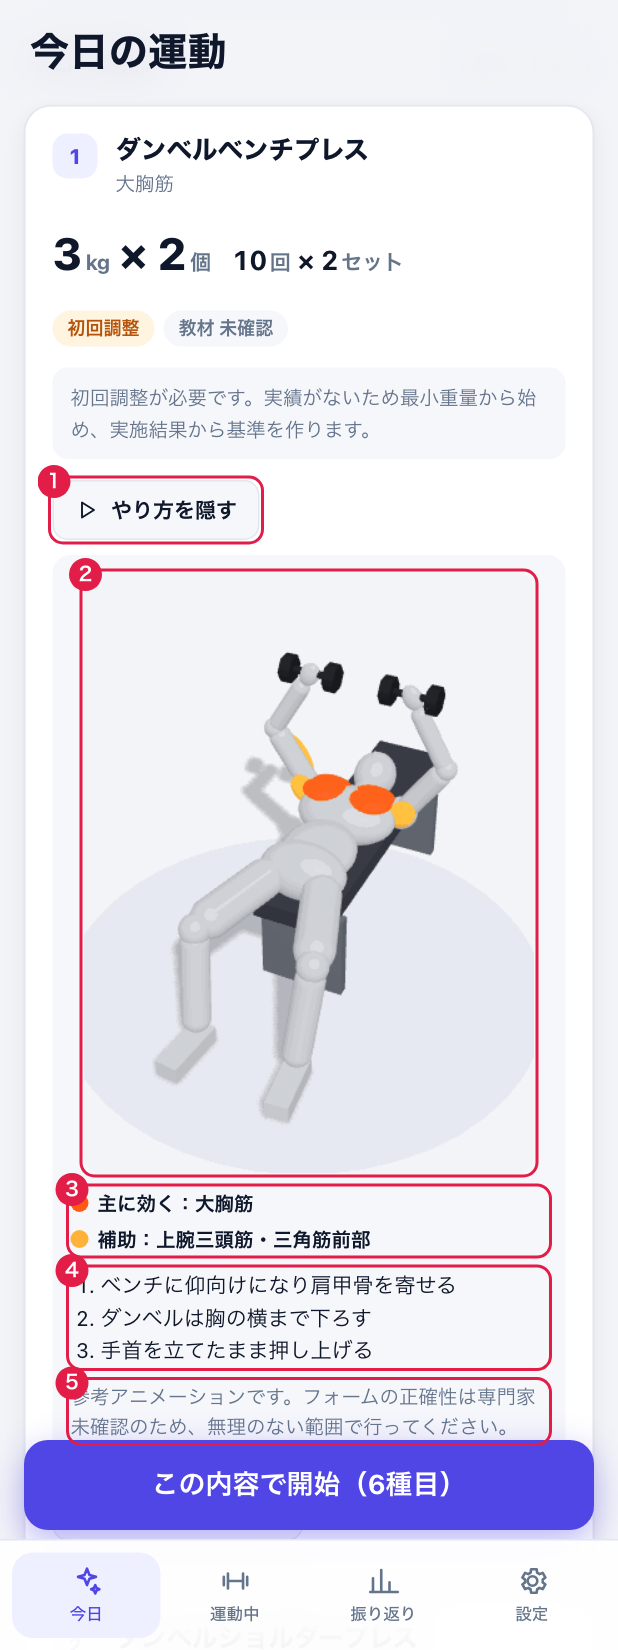
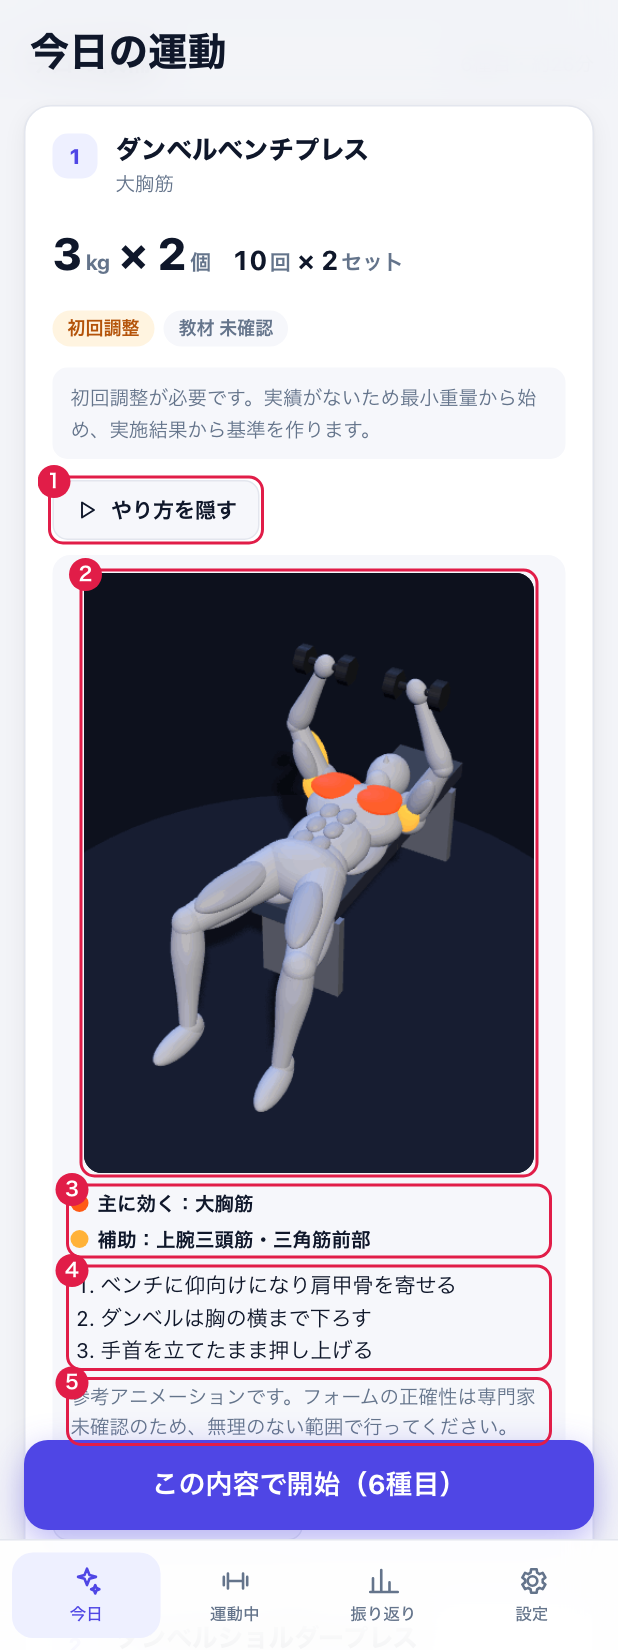
やり方GIFの見た目を刷新(筋肉の膨らみ・腹筋の分割・暗いスタジオ背景・リムライト・部位の発光、420x560/256色)

Changed region(s): [[0.123, 0.34, 0.8916, 0.7109]]

diff --git a/app/tools/motion/rig.ts b/app/tools/motion/rig.ts
@@ -43,7 +43,8 @@ const T = 0.42; // 大腿
 const S = 0.42; // 下腿
 const rad = THREE.MathUtils.degToRad;
 
-const BODY = 0xf4f6f9;
+const BODY = 0xdfe3ea;
+const MUSCLE_NEUTRAL = 0xc9ceda;
 const DARK = 0x2b2d33;
 
 export const MUSCLE_REGIONS = [
@@ -93,58 +94,64 @@ export class Rig {
     return m;
   }
 
+  /** 筋肉の領域。強調されないときは体と同系色で膨らみだけを見せ、強調時は発光色になる */
   private overlay(region: Region, parent: THREE.Object3D, pos: V3, radii: V3) {
     const m = new THREE.Mesh(
-      new THREE.SphereGeometry(1, 20, 14),
-      new THREE.MeshStandardMaterial({ color: 0xff6a1f, roughness: 0.5, emissive: 0xff6a1f, emissiveIntensity: 0.2 })
+      new THREE.SphereGeometry(1, 24, 16),
+      new THREE.MeshStandardMaterial({ color: MUSCLE_NEUTRAL, roughness: 0.6, emissive: 0x000000 })
     );
     m.position.set(...pos);
     m.scale.set(...radii);
-    m.visible = false;
+    m.castShadow = true;
     parent.add(m);
     this.muscles[region].push(m);
     return m;
   }
 
-  private capsule(parent: THREE.Object3D, len: number, r: number) {
-    const g = new THREE.CapsuleGeometry(r, Math.max(0.001, len - 2 * r), 8, 16);
-    g.translate(0, -len / 2, 0);
-    const m = this.mesh(g);
+  /** 筋肉のふくらみを持つ手足。profile=[関節からの位置0..1, 半径] を滑らかに補間して回転体にする */
+  private limbMesh(parent: THREE.Object3D, len: number, profile: [number, number][], flatZ = 0.92) {
+    const curve = new THREE.SplineCurve(profile.map(([t, r]) => new THREE.Vector2(t, r)));
+    const pts = curve.getPoints(18).map((v) => new THREE.Vector2(Math.max(0.004, v.y), -v.x * len));
+    pts.reverse();
+    const m = this.mesh(new THREE.LatheGeometry(pts, 28));
+    m.scale.z = flatZ;
     parent.add(m);
     return m;
   }
 
   private buildBody() {
     const { root, torso, head } = this;
-    // 骨盤
-    this.ellipsoid(root, [0, 0, 0], [0.17, 0.11, 0.11]);
+    // 骨盤・胴体(逆三角形: 胸が広く、腰が細い)
+    this.ellipsoid(root, [0, 0, 0], [0.175, 0.115, 0.115]);
     root.add(torso);
-    // 胴体(腰・胸の2つの楕円体で逆三角形に)
-    this.ellipsoid(torso, [0, 0.13, 0], [0.145, 0.17, 0.09]);
-    this.ellipsoid(torso, [0, 0.4, 0], [0.2, 0.14, 0.105]);
+    this.ellipsoid(torso, [0, 0.06, 0], [0.15, 0.1, 0.095]);
+    this.ellipsoid(torso, [0, 0.2, 0], [0.155, 0.19, 0.095]);
+    this.ellipsoid(torso, [0, 0.41, 0], [0.205, 0.15, 0.115]);
+    this.ellipsoid(torso, [0, 0.53, -0.02], [0.13, 0.06, 0.08]); // 僧帽筋の傾斜
     // 首・頭
-    const neck = this.mesh(new THREE.CylinderGeometry(0.045, 0.05, 0.1, 12));
-    neck.position.set(0, 0.55, 0);
+    const neck = this.mesh(new THREE.CylinderGeometry(0.048, 0.056, 0.11, 16));
+    neck.position.set(0, 0.57, 0);
     torso.add(neck);
-    head.position.set(0, 0.64, 0.01);
+    head.position.set(0, 0.64, 0.012);
     torso.add(head);
-    const skull = this.ellipsoid(head, [0, 0.05, 0], [0.085, 0.1, 0.095]);
-    skull.castShadow = true;
-    const nose = this.mesh(new THREE.ConeGeometry(0.018, 0.04, 10));
+    this.ellipsoid(head, [0, 0.055, 0], [0.086, 0.104, 0.098]);
+    this.ellipsoid(head, [0, -0.035, 0.022], [0.052, 0.05, 0.058]); // あご
+    const nose = this.mesh(new THREE.ConeGeometry(0.017, 0.04, 10));
     nose.rotation.x = Math.PI / 2;
-    nose.position.set(0, 0.04, 0.105);
+    nose.position.set(0, 0.03, 0.104);
     head.add(nose);
 
-    // 胴体の筋肉
+    // 胴体の筋肉領域(常に形を見せ、強調時に発光)
     for (const s of [1, -1]) {
-      this.overlay("pec", torso, [0.095 * s, 0.4, 0.088], [0.09, 0.07, 0.035]);
-      this.overlay("upperpec", torso, [0.09 * s, 0.46, 0.078], [0.085, 0.045, 0.035]);
-      this.overlay("lat", torso, [0.115 * s, 0.28, -0.075], [0.075, 0.15, 0.035]);
+      this.overlay("pec", torso, [0.098 * s, 0.41, 0.098], [0.092, 0.072, 0.034]);
+      this.overlay("upperpec", torso, [0.09 * s, 0.47, 0.085], [0.088, 0.045, 0.034]);
+      this.overlay("lat", torso, [0.1 * s, 0.3, -0.075], [0.075, 0.15, 0.036]);
       this.overlay("erector", torso, [0.04 * s, 0.1, -0.085], [0.032, 0.13, 0.03]);
-      this.overlay("glute", root, [0.08 * s, -0.035, -0.092], [0.075, 0.075, 0.05]);
+      this.overlay("glute", root, [0.08 * s, -0.035, -0.092], [0.078, 0.078, 0.052]);
+      // 腹直筋(6分割)
+      for (const y of [0.27, 0.17, 0.07]) this.overlay("core", torso, [0.036 * s, y, 0.09], [0.036, 0.046, 0.022]);
     }
-    this.overlay("core", torso, [0, 0.14, 0.09], [0.09, 0.14, 0.04]);
-    this.overlay("trap", torso, [0, 0.49, -0.085], [0.11, 0.07, 0.03]);
+    this.overlay("trap", torso, [0, 0.5, -0.09], [0.12, 0.07, 0.034]);
 
     // 腕
     for (const side of ["L", "R"] as Side[]) {
@@ -152,23 +159,23 @@ export class Rig {
       const sh = new THREE.Group();
       sh.position.set(0.19 * s, 0.5, 0);
       torso.add(sh);
-      this.ellipsoid(sh, [0, 0, 0], [0.065, 0.065, 0.065]);
-      this.capsule(sh, U, 0.045);
+      this.ellipsoid(sh, [0, 0, 0], [0.068, 0.068, 0.068]);
+      this.limbMesh(sh, U, [[0, 0.05], [0.18, 0.057], [0.4, 0.053], [0.72, 0.045], [1, 0.038]]);
       const el = new THREE.Group();
       el.position.set(0, -U, 0);
       sh.add(el);
-      this.ellipsoid(el, [0, 0, 0], [0.042, 0.042, 0.042]);
-      this.capsule(el, F, 0.036);
+      this.ellipsoid(el, [0, 0, 0], [0.041, 0.041, 0.041]);
+      this.limbMesh(el, F, [[0, 0.041], [0.2, 0.047], [0.55, 0.036], [1, 0.026]]);
       const wr = new THREE.Group();
       wr.position.set(0, -F, 0);
       el.add(wr);
-      this.ellipsoid(wr, [0, -0.04, 0], [0.038, 0.05, 0.03]);
+      this.ellipsoid(wr, [0, -0.04, 0], [0.04, 0.05, 0.034]);
       this.arms[side] = { root: sh, mid: el, end: wr };
-      this.overlay("delt_front", sh, [0.0, -0.035, 0.05], [0.05, 0.065, 0.032]);
-      this.overlay("delt_mid", sh, [0.05 * s, -0.03, 0.0], [0.032, 0.065, 0.05]);
-      this.overlay("delt_rear", sh, [0.0, -0.035, -0.05], [0.05, 0.065, 0.032]);
-      this.overlay("biceps", sh, [0, -0.15, 0.04], [0.04, 0.1, 0.034]);
-      this.overlay("triceps", sh, [0, -0.15, -0.04], [0.04, 0.1, 0.034]);
+      this.overlay("delt_front", sh, [0.0, -0.035, 0.05], [0.05, 0.066, 0.032]);
+      this.overlay("delt_mid", sh, [0.05 * s, -0.03, 0.0], [0.032, 0.066, 0.05]);
+      this.overlay("delt_rear", sh, [0.0, -0.035, -0.05], [0.05, 0.066, 0.032]);
+      this.overlay("biceps", sh, [0, -0.15, 0.04], [0.042, 0.1, 0.036]);
+      this.overlay("triceps", sh, [0, -0.15, -0.042], [0.042, 0.1, 0.036]);
     }
 
     // 脚
@@ -177,21 +184,20 @@ export class Rig {
       const hip = new THREE.Group();
       hip.position.set(0.09 * s, -0.02, 0);
       root.add(hip);
-      this.capsule(hip, T, 0.075);
+      this.limbMesh(hip, T, [[0, 0.088], [0.25, 0.086], [0.55, 0.072], [0.85, 0.06], [1, 0.056]], 0.95);
       const knee = new THREE.Group();
       knee.position.set(0, -T, 0);
       hip.add(knee);
       this.ellipsoid(knee, [0, 0, 0], [0.058, 0.058, 0.058]);
-      this.capsule(knee, S, 0.055);
+      this.limbMesh(knee, S, [[0, 0.056], [0.22, 0.063], [0.38, 0.059], [0.7, 0.042], [1, 0.033]], 0.95);
       const ankle = new THREE.Group();
       ankle.position.set(0, -S, 0);
       knee.add(ankle);
-      const foot = this.mesh(new THREE.BoxGeometry(0.09, 0.07, 0.25));
-      foot.position.set(0, -0.045, 0.07);
-      ankle.add(foot);
+      this.ellipsoid(ankle, [0, -0.055, 0.055], [0.05, 0.048, 0.135]); // 足
+      this.ellipsoid(ankle, [0, -0.03, -0.02], [0.04, 0.05, 0.05]); // かかと
       this.legs[side] = { root: hip, mid: knee, end: ankle };
-      this.overlay("quad", hip, [0, -0.22, 0.056], [0.062, 0.17, 0.04]);
-      this.overlay("hamstring", hip, [0, -0.22, -0.056], [0.062, 0.17, 0.04]);
+      this.overlay("quad", hip, [0, -0.22, 0.058], [0.064, 0.17, 0.04]);
+      this.overlay("hamstring", hip, [0, -0.22, -0.058], [0.064, 0.17, 0.04]);
     }
   }
 
@@ -399,18 +405,23 @@ export class Rig {
     if (p.pushBars) this.pushBars.position.set(...p.pushBars[0]);
   }
 
-  /** 強調する筋肉領域を設定。primary=濃いオレンジ、secondary=黄。level=0..1で明るさ変化 */
+  /** 強調する筋肉領域を設定。primary=濃いオレンジ、secondary=黄。level=0..1で発光の強さが変化 */
   highlight(primary: Region[], secondary: Region[], level: number) {
     for (const r of MUSCLE_REGIONS) {
       const isP = primary.includes(r);
       const isS = !isP && secondary.includes(r);
       for (const m of this.muscles[r]) {
-        m.visible = isP || isS;
         const mat = m.material as THREE.MeshStandardMaterial;
-        const col = isP ? 0xff5a14 : 0xffb238;
+        if (!isP && !isS) {
+          mat.color.setHex(MUSCLE_NEUTRAL);
+          mat.emissive.setHex(0x000000);
+          mat.emissiveIntensity = 0;
+          continue;
+        }
+        const col = isP ? 0xff4d12 : 0xffb238;
         mat.color.setHex(col);
         mat.emissive.setHex(col);
-        mat.emissiveIntensity = 0.12 + 0.4 * level;
+        mat.emissiveIntensity = 0.25 + 0.6 * level;
       }
     }
   }

diff --git a/app/tools/motion/main.ts b/app/tools/motion/main.ts
@@ -4,8 +4,8 @@ import { Rig, type Region } from "./rig";
 import { MOTIONS } from "./motions";
 import { INITIAL_EXERCISES } from "../../src/domain/exercises";
 
-const W = 360;
-const H = 480;
+const W = 420;
+const H = 560;
 const canvas = document.getElementById("c") as HTMLCanvasElement;
 const renderer = new THREE.WebGLRenderer({ canvas, antialias: true });
 renderer.setPixelRatio(1);
@@ -15,29 +15,35 @@ renderer.shadowMap.type = THREE.PCFSoftShadowMap;
 
 const rig = new Rig();
 const scene = rig.scene;
-scene.background = new THREE.Color(0xf3f4f8);
-scene.add(new THREE.HemisphereLight(0xffffff, 0xdfe3ee, 1.6));
-const sun = new THREE.DirectionalLight(0xffffff, 1.0);
-sun.position.set(2.2, 4, 3);
-sun.castShadow = true;
-sun.shadow.mapSize.set(1024, 1024);
-sun.shadow.camera.left = -2;
-sun.shadow.camera.right = 2;
-sun.shadow.camera.top = 2;
-sun.shadow.camera.bottom = -2;
-sun.shadow.radius = 4;
-scene.add(sun);
-const floor = new THREE.Mesh(new THREE.PlaneGeometry(12, 12), new THREE.ShadowMaterial({ opacity: 0.22 }));
+scene.background = new THREE.Color(0x0d111d);
+scene.add(new THREE.HemisphereLight(0xdfe8ff, 0x1a2033, 0.95));
+const key = new THREE.DirectionalLight(0xfff1e0, 1.7);
+key.position.set(2.2, 4, 3);
+key.castShadow = true;
+key.shadow.mapSize.set(1024, 1024);
+key.shadow.camera.left = -2;
+key.shadow.camera.right = 2;
+key.shadow.camera.top = 2;
+key.shadow.camera.bottom = -2;
+key.shadow.radius = 5;
+key.shadow.bias = -0.0004;
+scene.add(key);
+const rim = new THREE.DirectionalLight(0x6ea8ff, 1.6); // 輪郭を浮かせる寒色のリムライト
+rim.position.set(-3, 2.5, -3);
+scene.add(rim);
+const fill = new THREE.DirectionalLight(0x8899ff, 0.45);
+fill.position.set(-2, 1, 3);
+scene.add(fill);
+
+// 床: 単色の円形ステージ(グラデーションはGIFの256色で縞になるため使わない)
+const stage = new THREE.Mesh(new THREE.CircleGeometry(1.3, 64), new THREE.MeshBasicMaterial({ color: 0x171d31 }));
+stage.rotation.x = -Math.PI / 2;
+stage.position.y = -0.003;
+scene.add(stage);
+const floor = new THREE.Mesh(new THREE.PlaneGeometry(12, 12), new THREE.ShadowMaterial({ opacity: 0.5 }));
 floor.rotation.x = -Math.PI / 2;
 floor.receiveShadow = true;
 scene.add(floor);
-const ring = new THREE.Mesh(
-  new THREE.CircleGeometry(0.95, 48),
-  new THREE.MeshBasicMaterial({ color: 0xe6e9f1 })
-);
-ring.rotation.x = -Math.PI / 2;
-ring.position.y = -0.002;
-scene.add(ring);
 
 const camera = new THREE.PerspectiveCamera(28, W / H, 0.1, 50);
 
@@ -79,7 +85,8 @@ window.__renderFrame = (id, phase) => {
   rig.applyPose(m.pose(k));
   rig.highlight(regions([ex.primaryMuscle]), regions(ex.secondaryMuscles), m.effort ? m.effort(k) : k);
   const c = m.cam;
-  const az = (c.az * Math.PI) / 180;
+  // 立体感を出すため、視点をゆるく左右に振る
+  const az = ((c.az + 9 * Math.sin(2 * Math.PI * phase)) * Math.PI) / 180;
   const el = ((c.el ?? 8) * Math.PI) / 180;
   const d = c.dist ?? 5.0;
   const t = new THREE.Vector3(...(c.target ?? [0, 0.98, 0]));

diff --git a/app/src/domain/__tests__/motion.test.ts b/app/src/domain/__tests__/motion.test.ts
@@ -5,7 +5,7 @@ import { INITIAL_EXERCISES } from "../exercises";
 // 「やり方アニメーション」が全種目にあり、本物のアニメーションGIFであることを確認する。
 describe("やり方アニメーション(public/motions)", () => {
   for (const ex of INITIAL_EXERCISES) {
-    it(`${ex.name}: GIFが存在し、複数フレームで、極端に大きくない`, () => {
+    it(`${ex.name}: GIFが存在し、複数フレームで、1.2MB未満`, () => {
       const file = `public/motions/${ex.id}.gif`;
       expect(existsSync(file), `${file} がありません。npm run motions で生成してください`).toBe(true);
       const buf = readFileSync(file);
@@ -14,7 +14,7 @@ describe("やり方アニメーション(public/motions)", () => {
       let frames = 0;
       for (let i = 0; i < buf.length - 1; i++) if (buf[i] === 0x21 && buf[i + 1] === 0xf9) frames++;
       expect(frames).toBeGreaterThan(10);
-      expect(statSync(file).size).toBeLessThan(600 * 1024);
+      expect(statSync(file).size).toBeLessThan(1200 * 1024);
     });
   }
 });

diff --git a/app/src/components/MotionGuide.tsx b/app/src/components/MotionGuide.tsx
@@ -30,8 +30,8 @@ export function MotionGuide({ exercise, defaultOpen = false }: { exercise: Exerc
               className="motion-img"
               src={motionSrcFor(exercise.id)}
               alt={`${exercise.name}の動作(3Dモデル)`}
-              width={360}
-              height={480}
+              width={420}
+              height={560}
               onError={() => setFailed(true)}
             />
           )}

diff --git a/app/src/App.css b/app/src/App.css
@@ -1126,7 +1126,7 @@ input.stepper-input {
   aspect-ratio: 3 / 4;
   align-self: center;
   border-radius: 12px;
-  background: #f3f4f8;
+  background: #0d111d;
 }
 
 .motion-legend {
